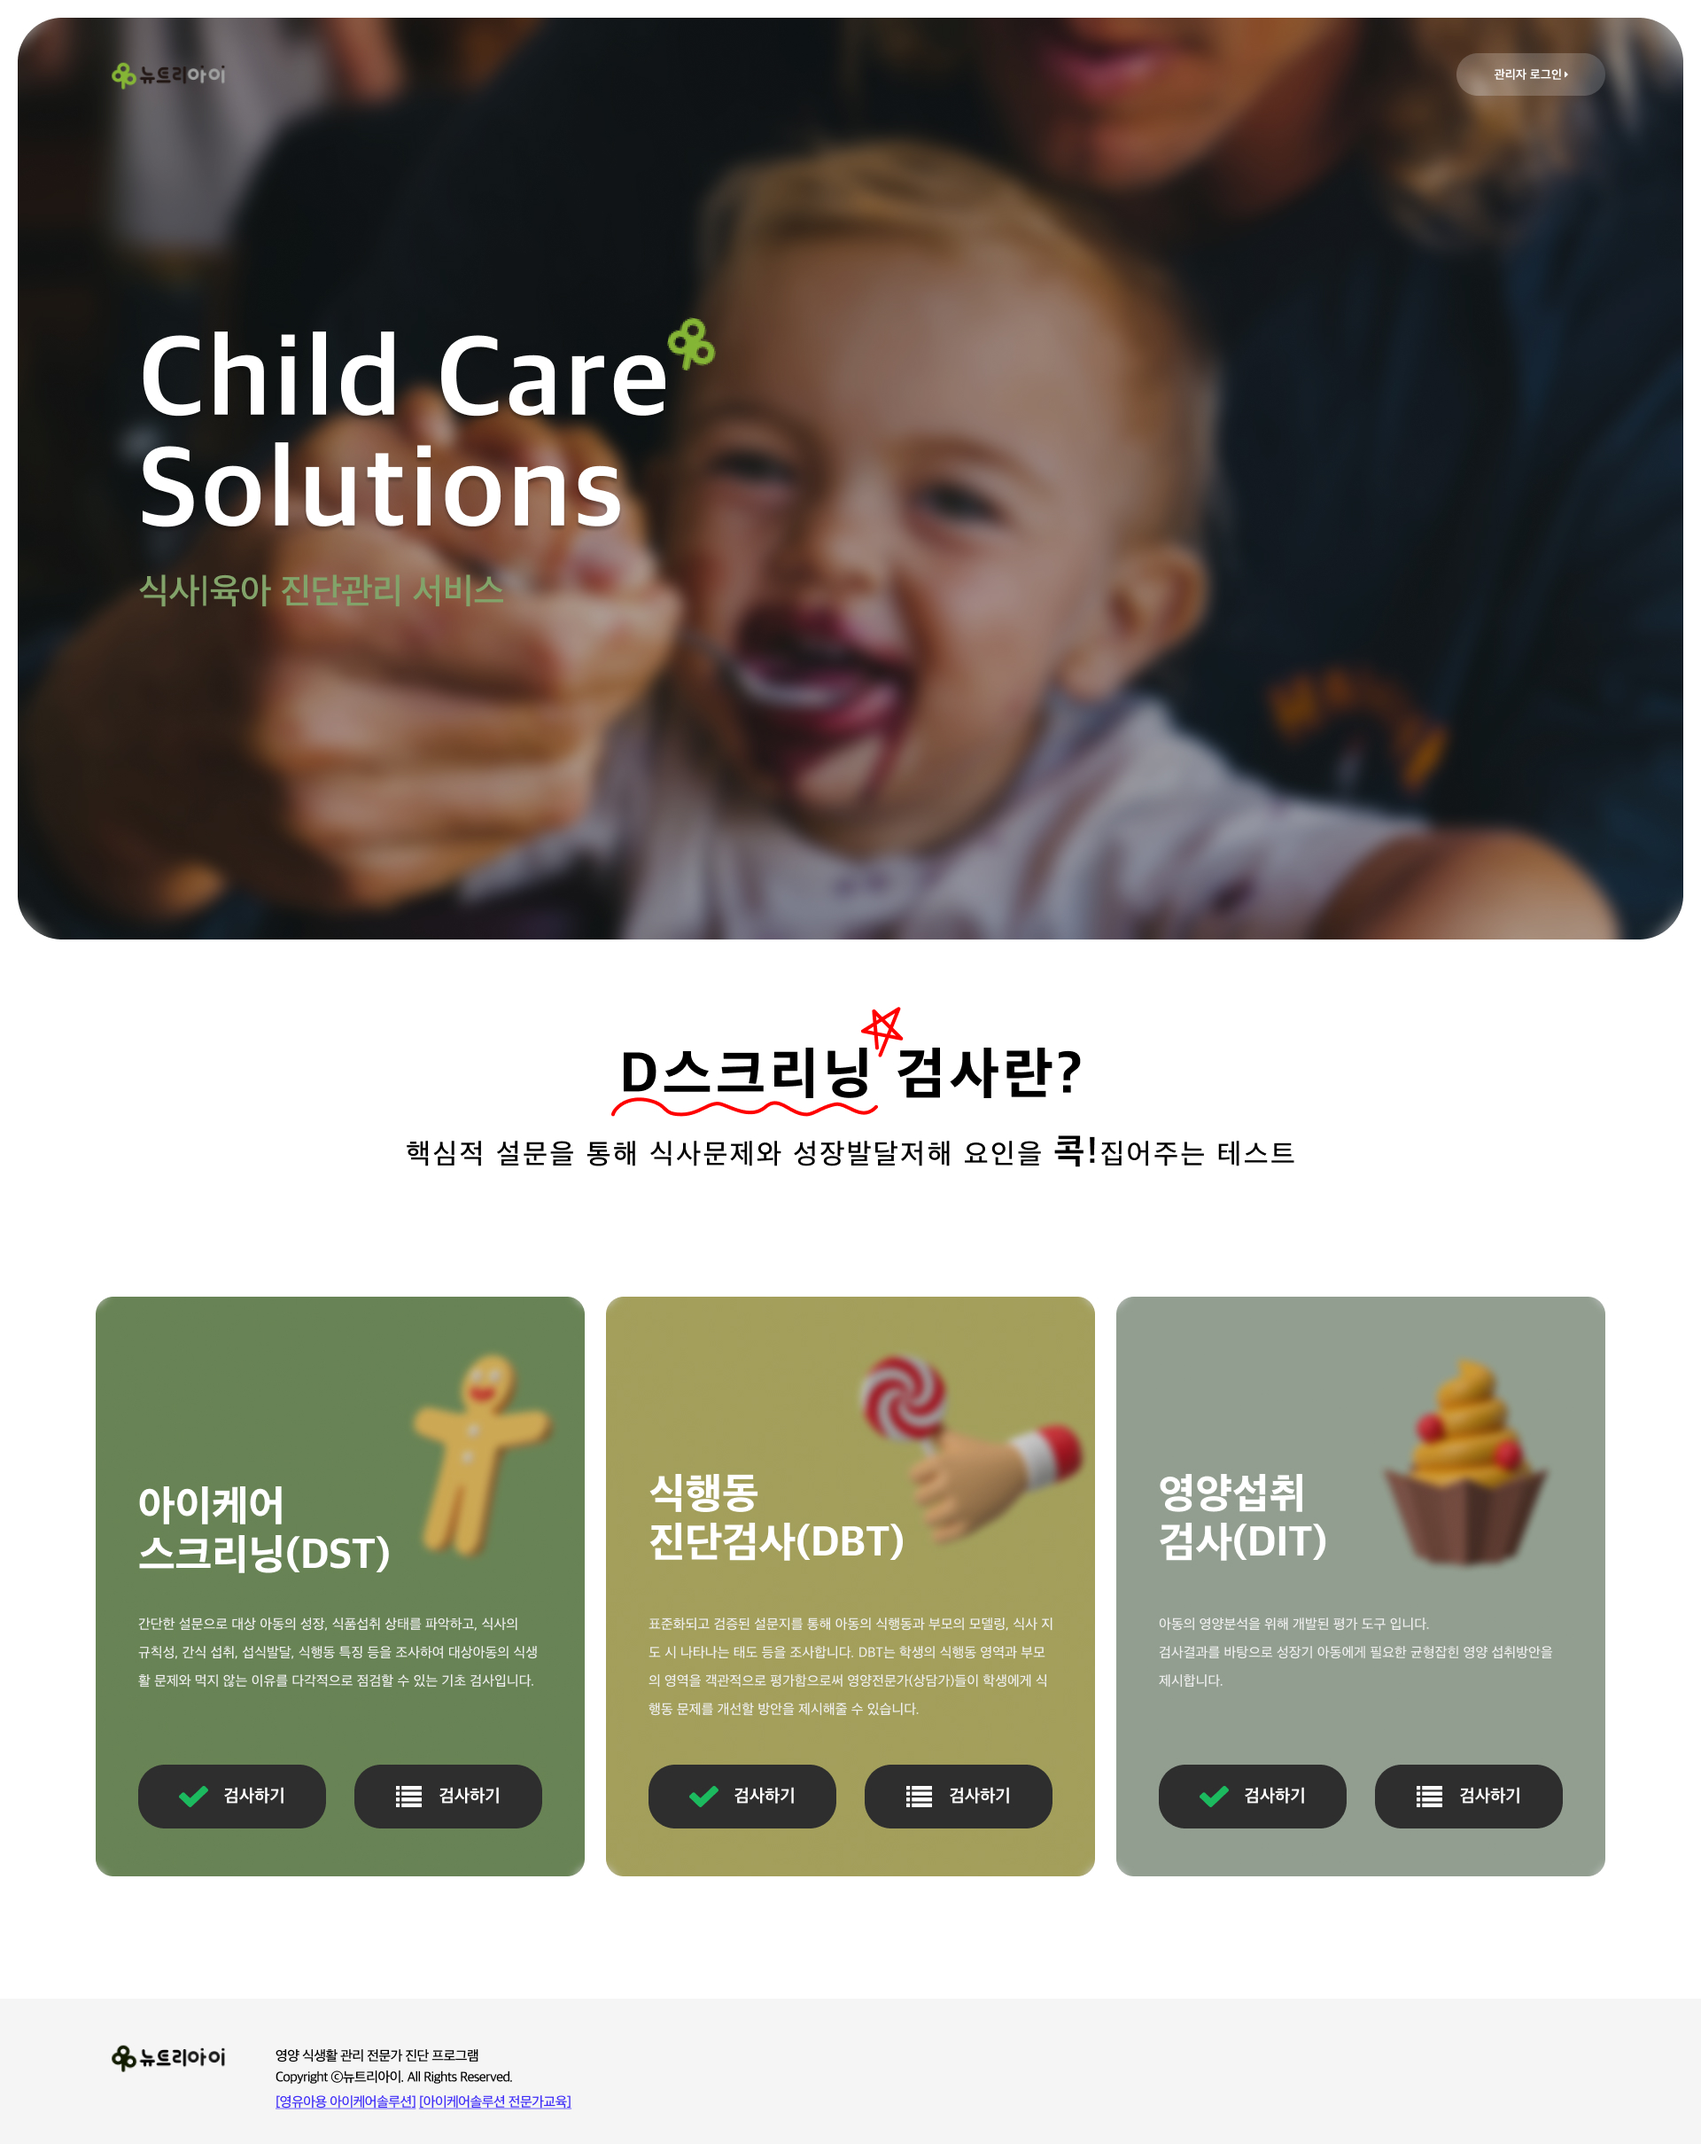
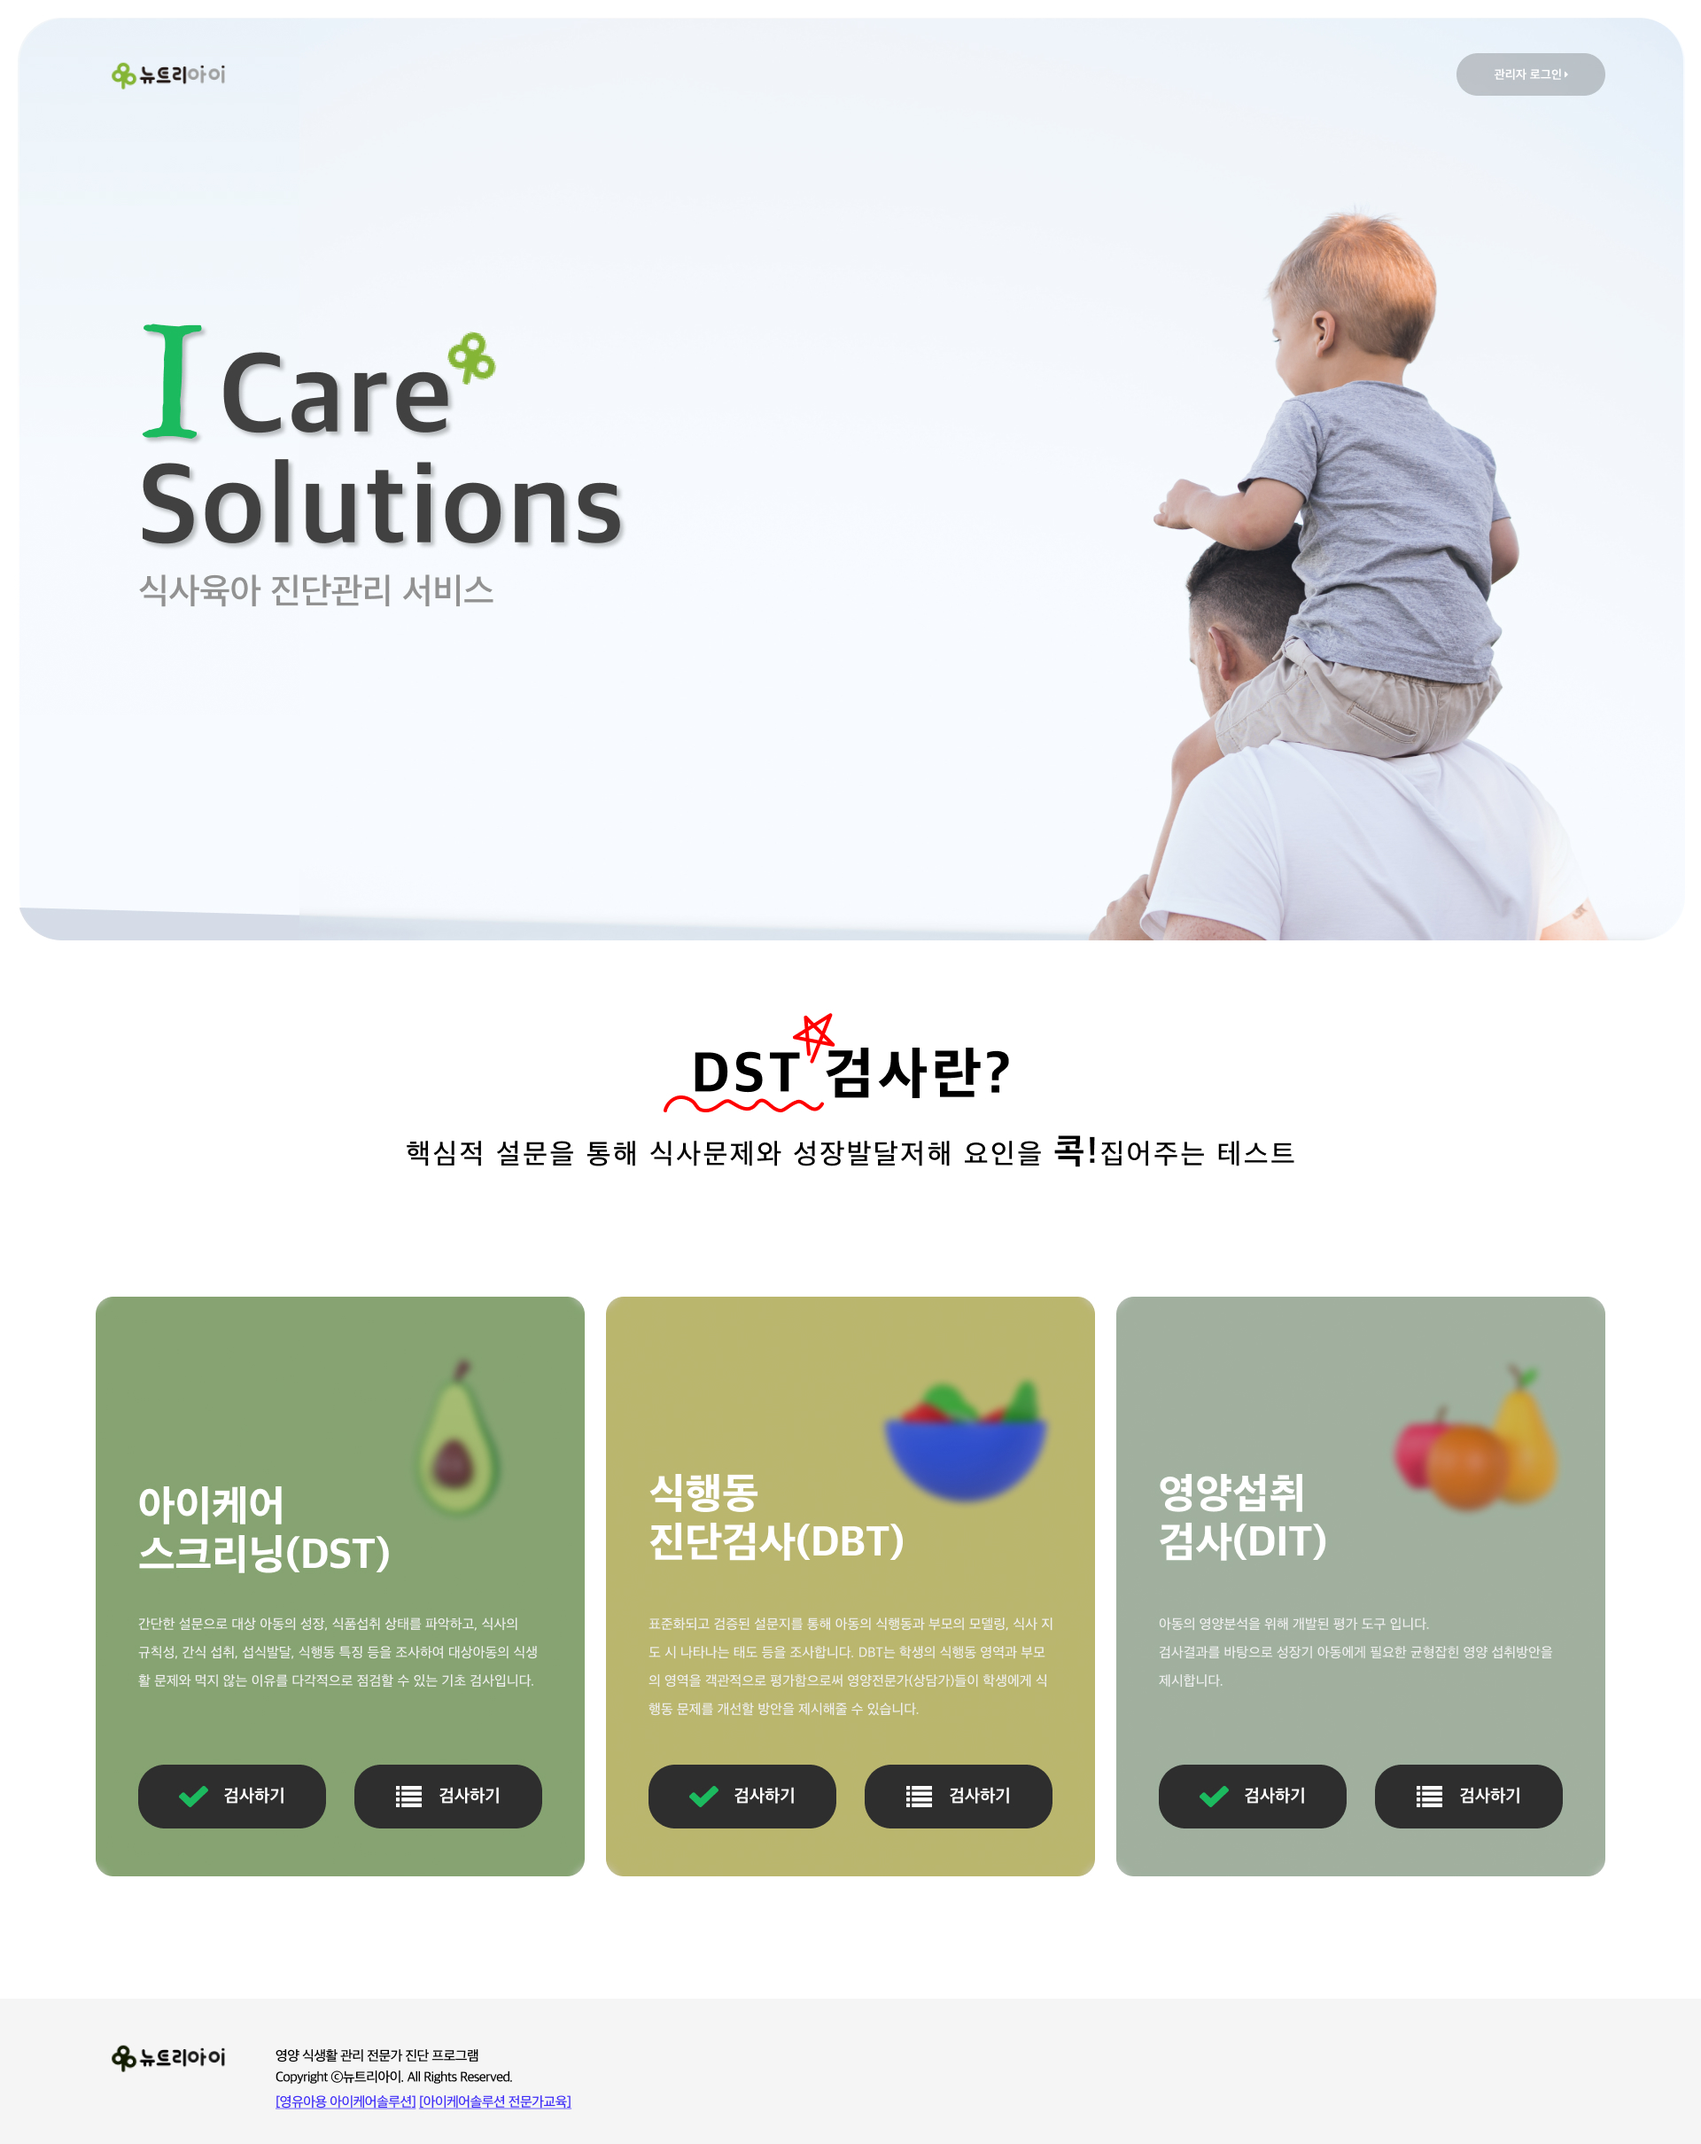
:sparkle:

diff --git a/newtreeI/main1.html b/newtreeI/main1.html
@@ -1,5 +1,5 @@
 <html>
   <body>
-    <img src="Main1.jpg" width="100%" />
+    <img src="Main1_Basic.jpg" width="100%" />
   </body>
 </html>

diff --git a/newtreeI/main2.html b/newtreeI/main2.html
@@ -1,5 +1,5 @@
 <html>
   <body>
-    <img src="Main.jpg" width="100%" />
+    <img src="Main2_Basic.jpg" width="100%" />
   </body>
 </html>

diff --git a/newtreeI/index.html b/newtreeI/index.html
@@ -1,0 +1,5 @@
+<html>
+<head>
+</head>
+<body>
+</body>
